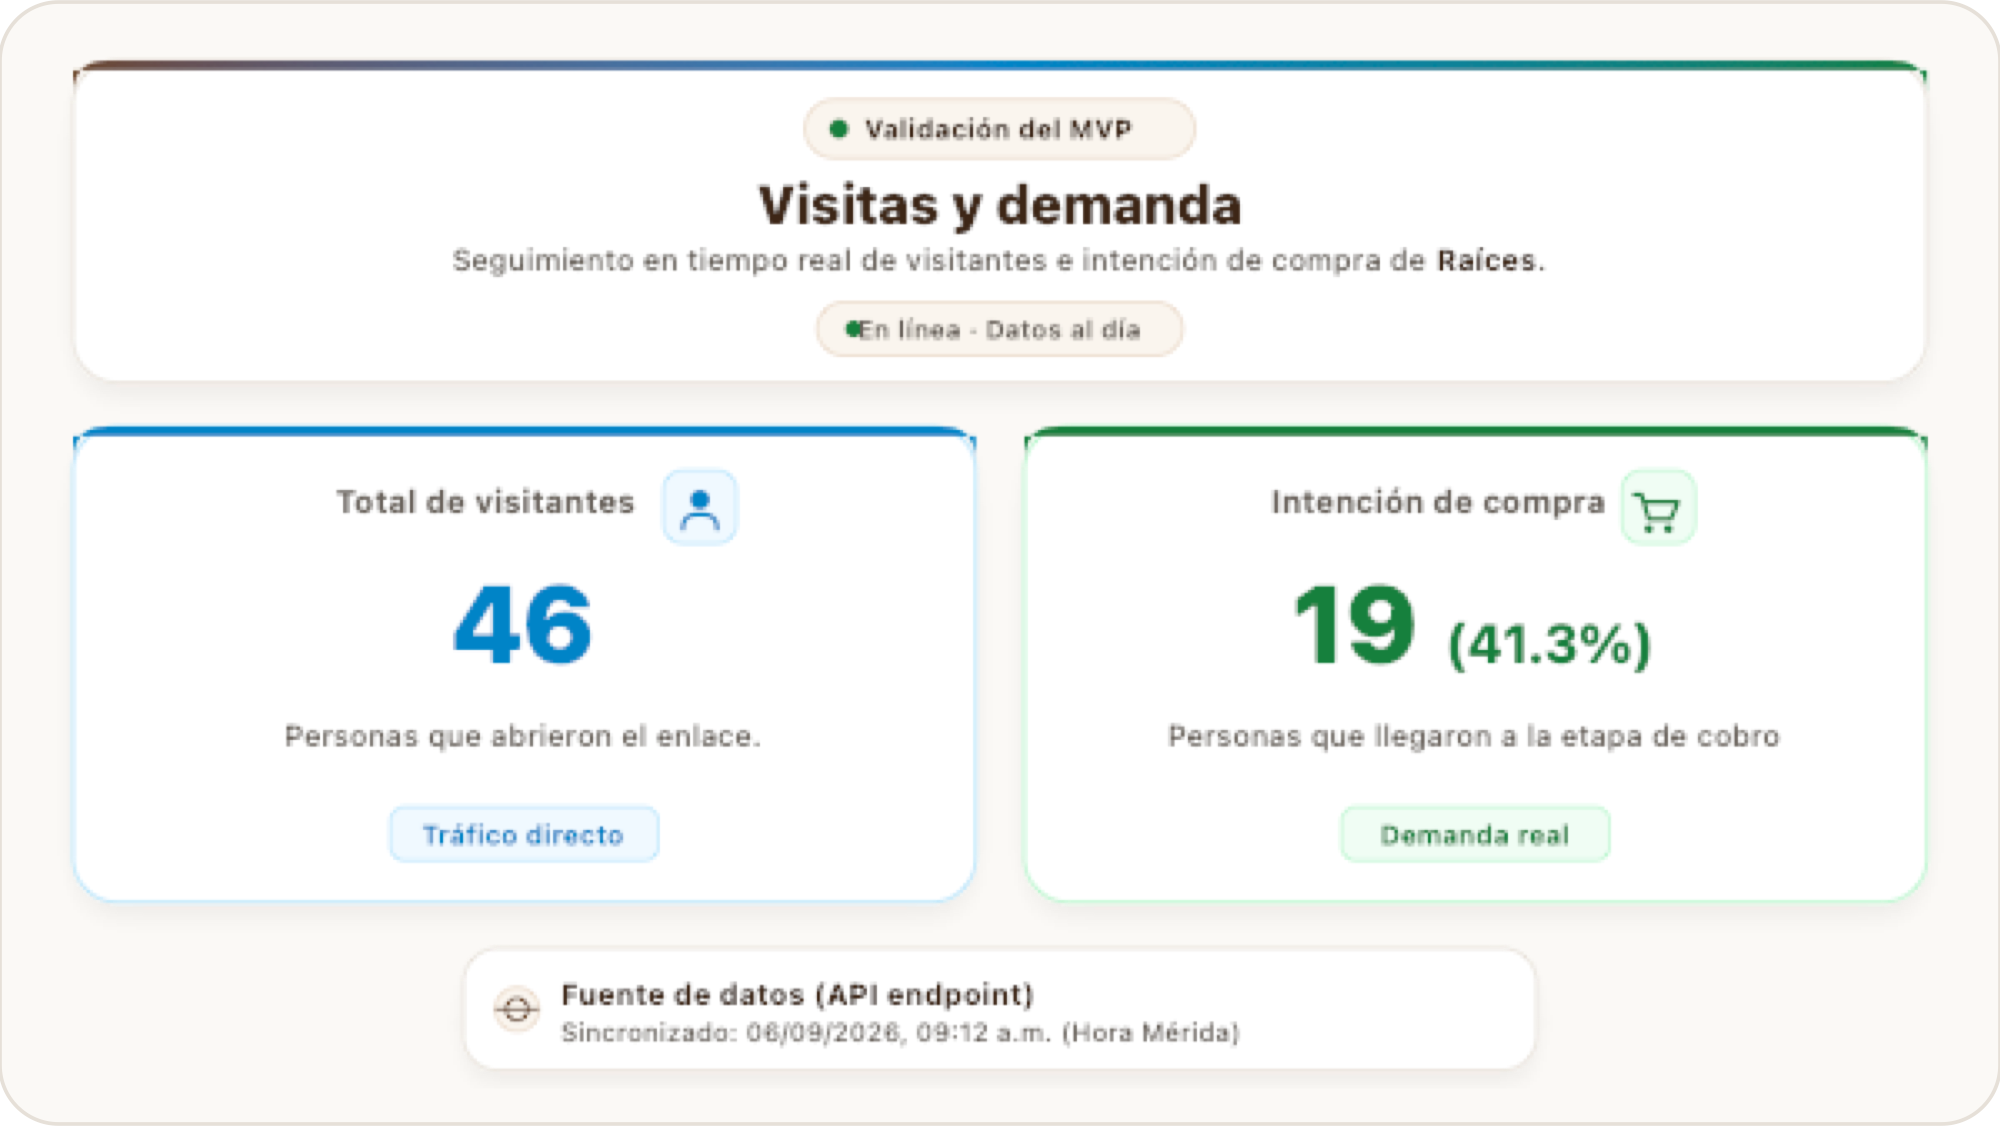
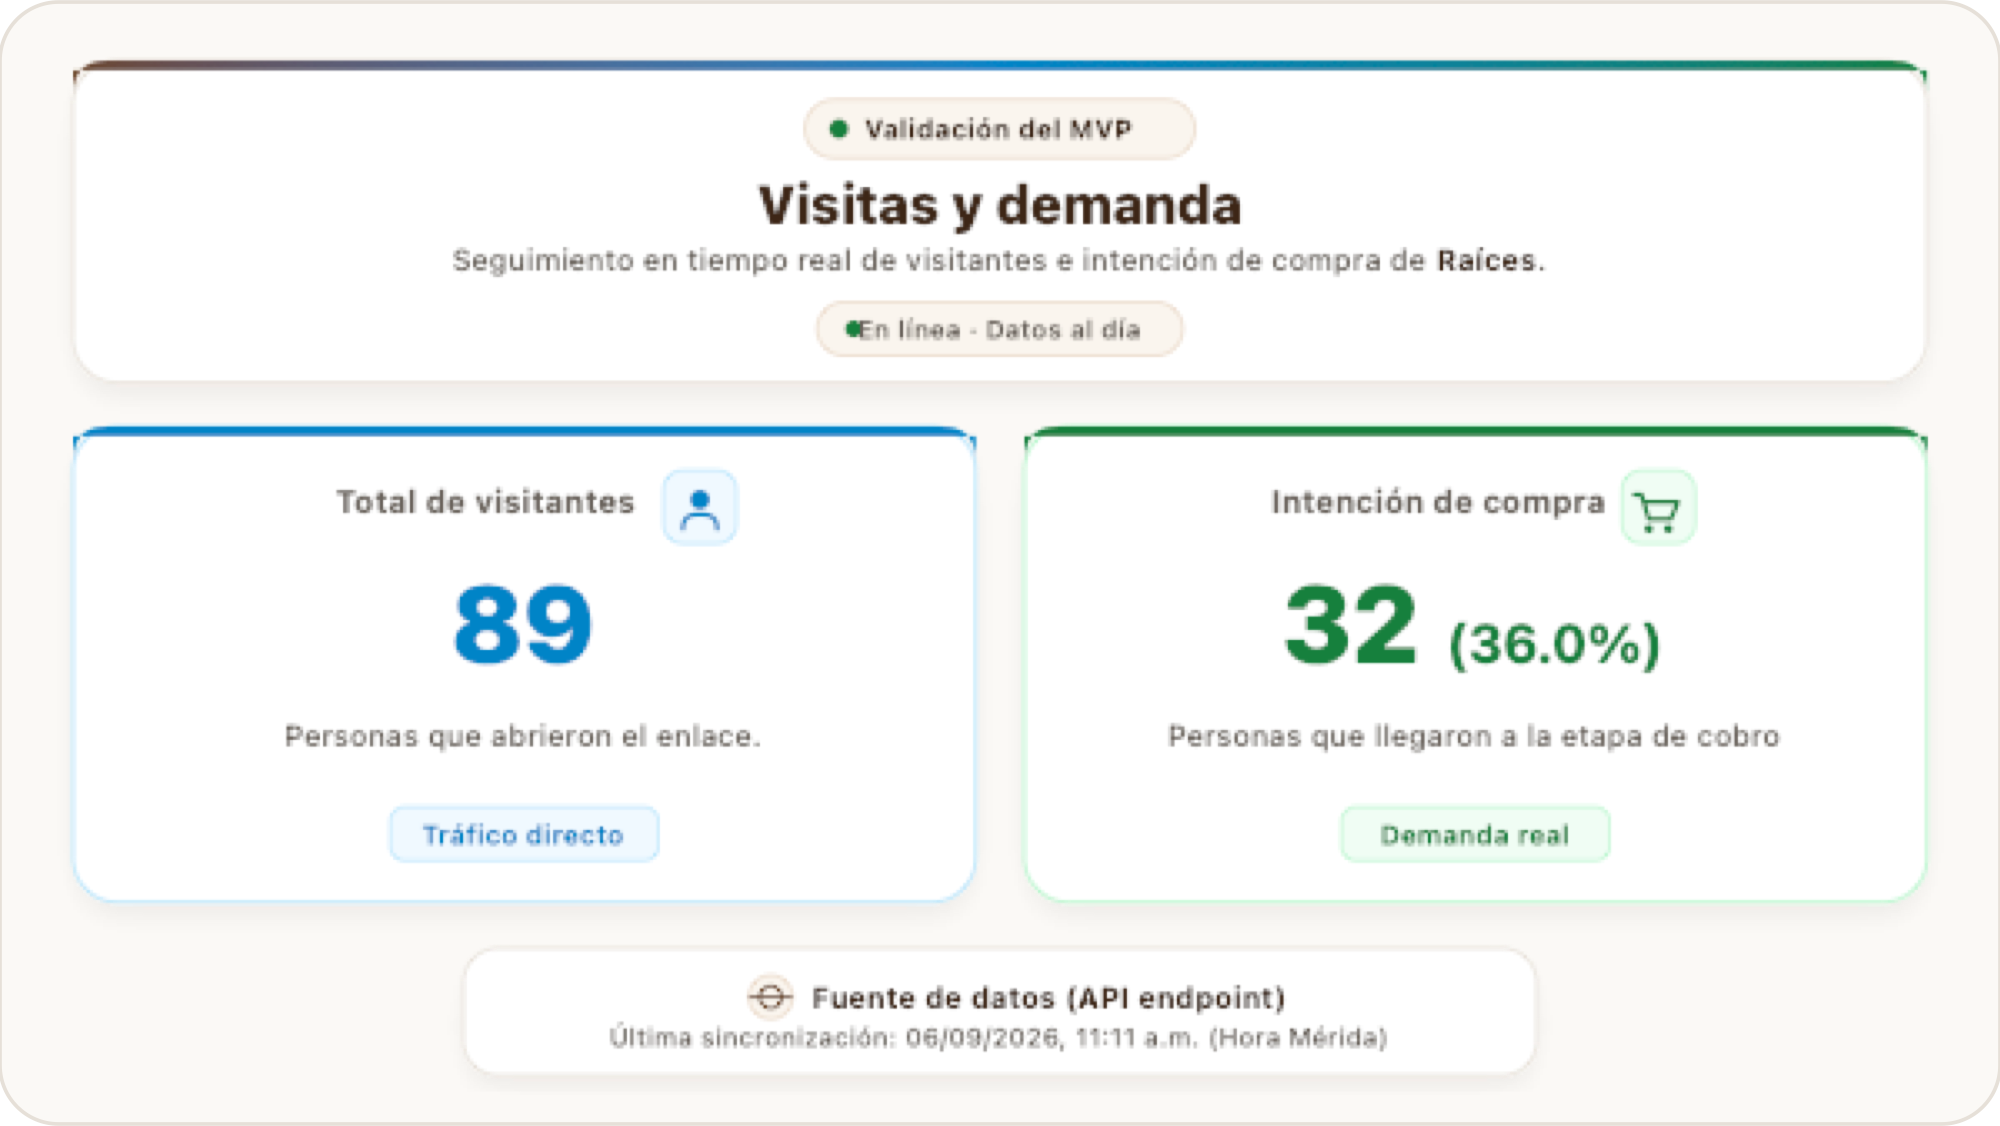
style(metrics): centrar tarjeta inferior de fuente de datos y sincronización

Changed region(s): [[0.248, 0.8703, 0.713, 0.9325], [0.62, 0.4973, 0.837, 0.5906], [0.217, 0.4973, 0.31, 0.5906]]

diff --git a/app/api/metricas/card.svg/route.ts b/app/api/metricas/card.svg/route.ts
@@ -120,15 +120,15 @@ export async function GET() {
 
   <!-- Fuente de Datos y Última Sincronización (Centrado al fondo) -->
   <g transform="translate(190, 388)" filter="url(#softShadow)">
-    <rect width="440" height="50" rx="14" fill="#ffffff" stroke="#e6e0d8" stroke-width="1"/>
+    <rect width="440" height="52" rx="14" fill="#ffffff" stroke="#e6e0d8" stroke-width="1"/>
     
-    <!-- Icono Globo / API -->
-    <circle cx="22" cy="25" r="9" fill="#faf5ee" stroke="#ebd9c8" stroke-width="1"/>
-    <circle cx="22" cy="25" r="4.5" fill="none" stroke="#6c4629" stroke-width="1.2"/>
-    <line x1="13" y1="25" x2="31" y2="25" stroke="#6c4629" stroke-width="1.2"/>
+    <!-- Icono Globo / API centrado con el título -->
+    <circle cx="126" cy="20" r="9" fill="#faf5ee" stroke="#ebd9c8" stroke-width="1"/>
+    <circle cx="126" cy="20" r="4.5" fill="none" stroke="#6c4629" stroke-width="1.2"/>
+    <line x1="117" y1="20" x2="135" y2="20" stroke="#6c4629" stroke-width="1.2"/>
     
-    <text x="40" y="22" fill="#3e2719" font-size="12" font-weight="700" class="text-font">Fuente de datos (API endpoint)</text>
-    <text x="40" y="38" fill="#6b635b" font-size="10.5" font-weight="500" class="text-font">Última sincronización: ${fechaTexto}</text>
+    <text x="143" y="24" fill="#3e2719" font-size="12" font-weight="700" class="text-font">Fuente de datos (API endpoint)</text>
+    <text x="220" y="40" fill="#6b635b" font-size="10.5" font-weight="500" class="text-font" text-anchor="middle">Última sincronización: ${fechaTexto}</text>
   </g>
 
 </svg>`

diff --git a/sitio-metricas-externo/index.html b/sitio-metricas-externo/index.html
@@ -59,7 +59,7 @@
           </div>
         </div>
         <div class="card-body">
-          <div class="metric-value" id="val-visitantes">46</div>
+          <div class="metric-value" id="val-visitantes">89</div>
           <p class="metric-desc">Personas que abrieron el enlace.</p>
         </div>
         <div class="card-footer">
@@ -81,8 +81,8 @@
         </div>
         <div class="card-body">
           <div class="metric-value">
-            <span id="val-compras">19</span>
-            <span class="metric-percentage" id="val-conversion">(41.3%)</span>
+            <span id="val-compras">32</span>
+            <span class="metric-percentage" id="val-conversion">(36.0%)</span>
           </div>
           <p class="metric-desc">Personas que llegaron a la etapa de cobro</p>
         </div>
@@ -103,7 +103,7 @@
         </svg>
         <h3>Fuente de datos (API endpoint)</h3>
       </div>
-      <span class="last-sync" id="last-sync-time">Última sincronización: 06/09/2026, 09:12 a.m. (Hora Mérida)</span>
+      <span class="last-sync" id="last-sync-time">Última sincronización: 06/09/2026, 11:11 a.m. (Hora Mérida)</span>
     </section>
 
   </main>

diff --git a/app/metricas/page.tsx b/app/metricas/page.tsx
@@ -151,7 +151,7 @@ export default function MetricasPage() {
         </section>
 
         {/* Fuente de Datos y Última Sincronización (Centrado) */}
-        <section className="bg-white border border-[#e6e0d8] rounded-xl py-3 px-5 sm:py-4 sm:px-6 shadow-xs flex flex-col items-center justify-center gap-1.5 text-center w-full max-w-[480px] mx-auto">
+        <section className="bg-white border border-[#e6e0d8] rounded-xl py-3 px-5 sm:py-4 sm:px-6 shadow-xs flex flex-col items-center justify-center gap-1.5 text-center w-full max-w-[440px] mx-auto">
           <div className="flex items-center justify-center gap-2 text-[#3e2719]">
             <Globe className="w-4 h-4 text-[#6c4629]" />
             <h3 className="text-xs sm:text-sm font-bold">

diff --git a/sitio-metricas-externo/style.css b/sitio-metricas-externo/style.css
@@ -418,7 +418,7 @@ body {
   gap: 6px;
   text-align: center;
   width: 100%;
-  max-width: 480px;
+  max-width: 440px;
   margin: 0 auto;
 }
 
